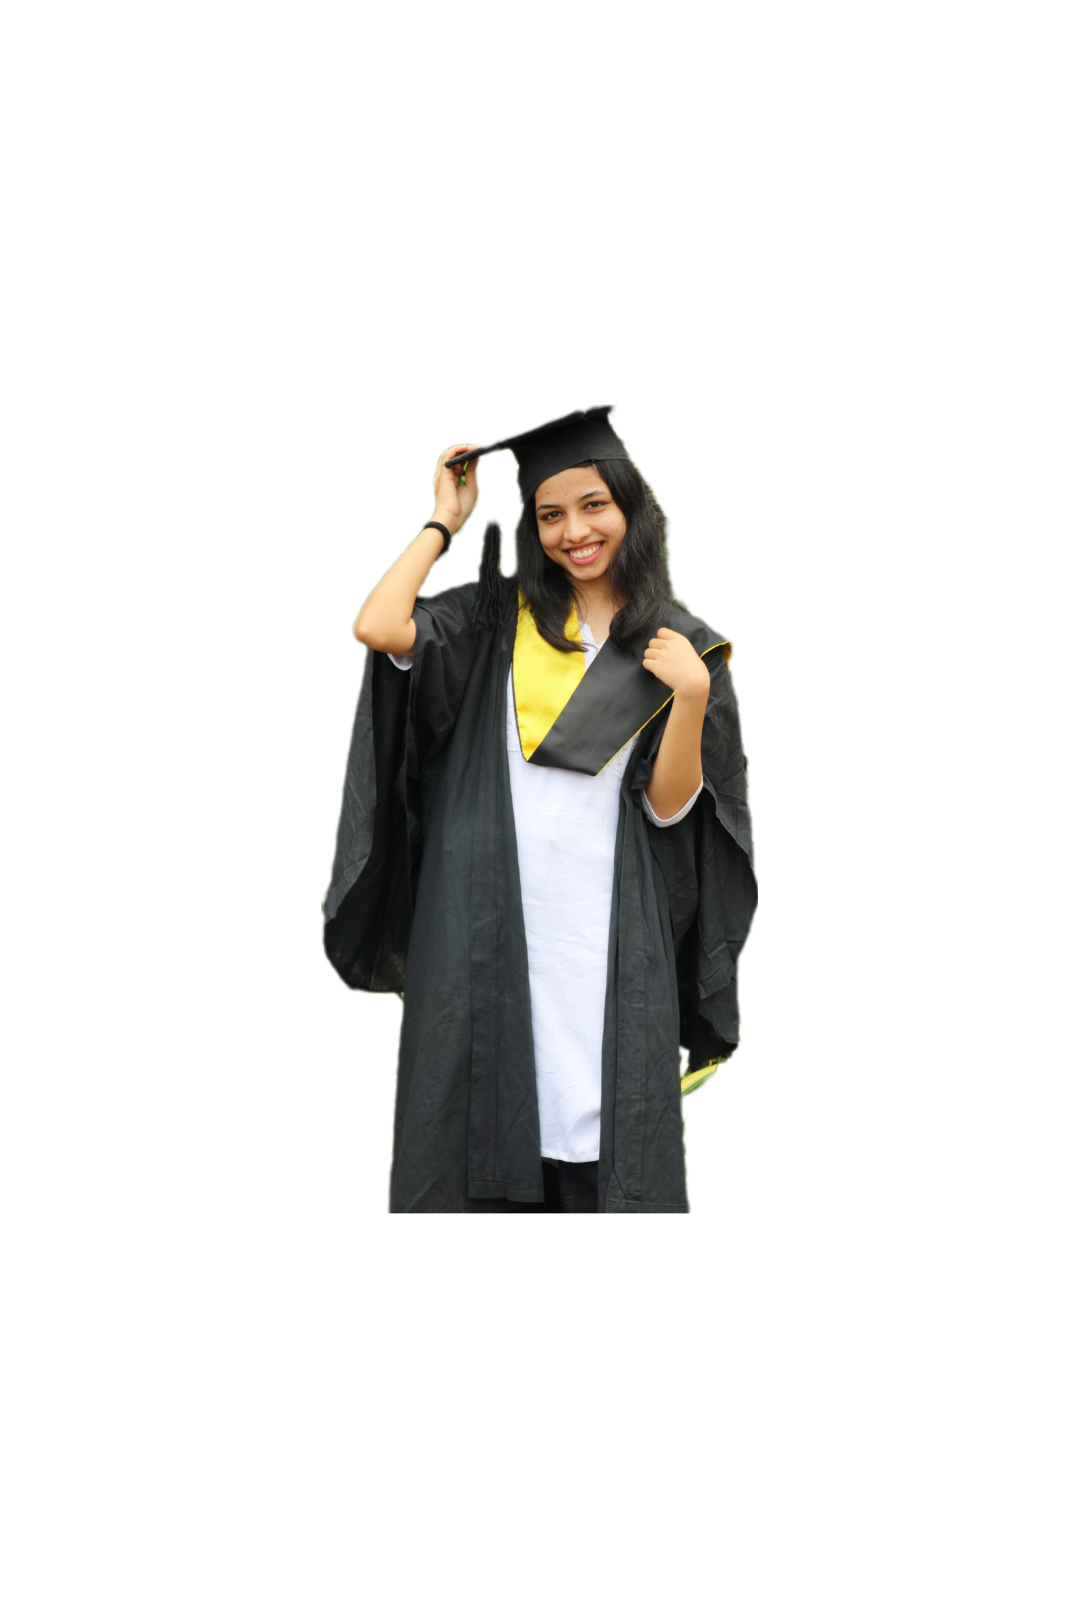
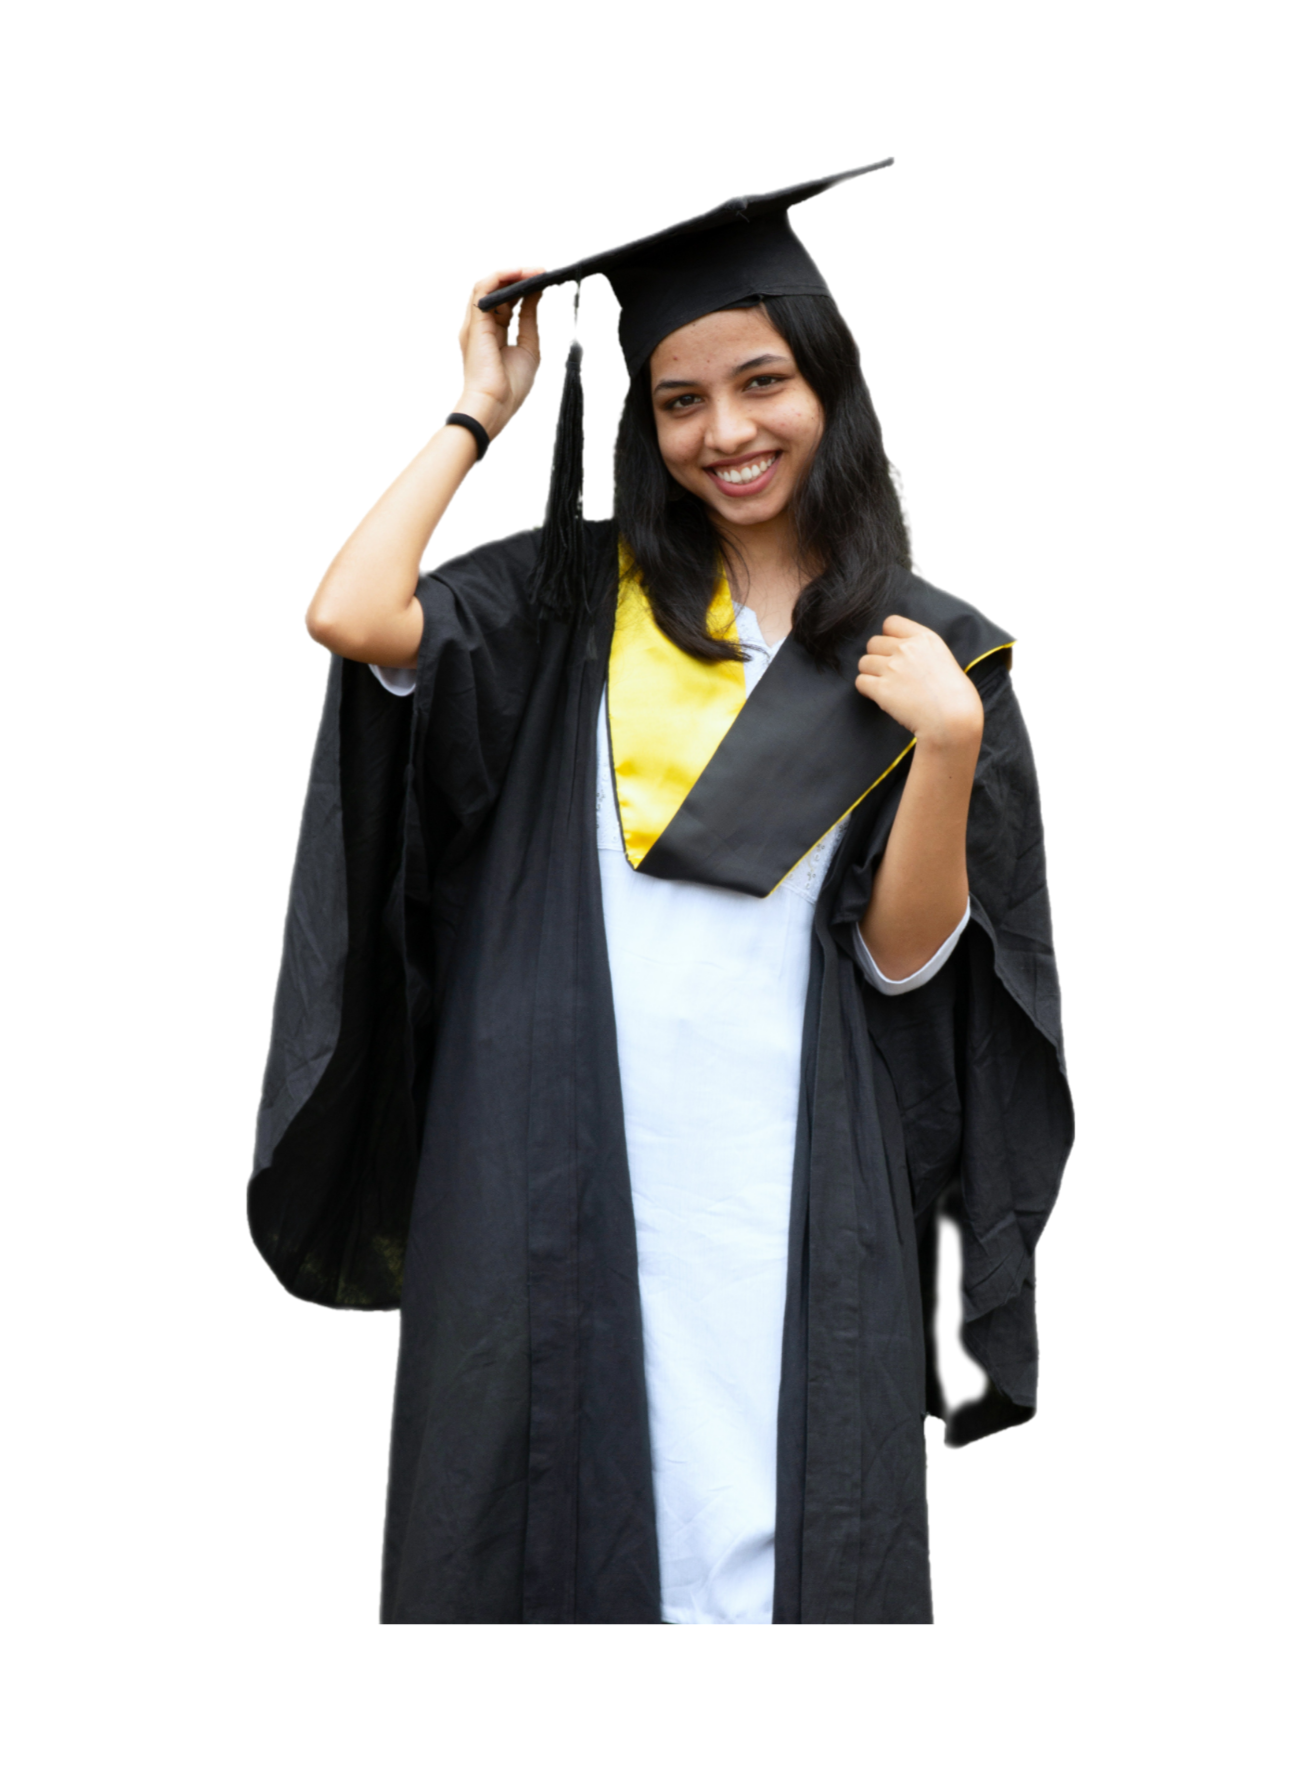
changed the ptofile along with some links

diff --git a/src/components/projects/Projects.js b/src/components/projects/Projects.js
@@ -20,21 +20,29 @@ function Projects() {
           search, and minimalist, user-friendly design for effortless news
           browsing."
         img={web}
+        git=""
+        link=""
       />
       <Project
         title="Blood Cell Segmentation"
-        desc="An automated blood cell segmentation method was developed using the watershed algorithm to count red blood cells in microscopy images "
+        desc="An automated blood cell segmentation method was developed using the watershed algorithm to count red blood cells in microscopy images. "
         img={blood}
+        git=""
+        link=""
       />
       <Project
         title="Portfolio(This Website)"
-        desc="Built a modern React JS portfolio with skill showcases, projects, and a user-friendly Contact Me section. Integrated direct email for seamless communication, enabling easy visitor outreach"
+        desc="Built a modern React JS portfolio with skill showcases, projects, and a user-friendly Contact Me section. Integrated direct email for seamless communication, enabling easy visitor outreach."
         img={portfolio}
+        git="https://github.com/mamtapoojary13/portfolio"
+        link="https://mamtapoojary13.github.io/portfolio/"
       />
       <Project
         title="Image Processing(Intern)"
-        desc="As an Image Processing Intern, I effectively utilized Python, OpenCV, and Machine Learning to tackle projects, demonstrating skills in computer vision for problem-solving"
+        desc="As an Image Processing Intern, I effectively utilized Python, OpenCV, and Machine Learning to tackle projects, demonstrating skills in computer vision for problem-solving."
         img={intern}
+        git=""
+        link=""
       />
     </div>
   );
@@ -44,7 +52,7 @@ function Project(props) {
   return (
     <div className="project">
       <div className="project-image">
-        <a href="" className="w-inline-block">
+        <a href={props.link} className="w-inline-block">
           <img src={props.img} alt="" className="p-img"></img>
         </a>
       </div>
@@ -52,7 +60,12 @@ function Project(props) {
         <h1 className="heading-2">{props.title}</h1>
         <p className="paragraph">{props.desc}</p>
         <div>
-          <a href="" className="btn-project">
+          <a
+            href={props.git}
+            className="btn-project"
+            target="_blank"
+            rel="noreferrer"
+          >
             <svg
               xmlns="http://www.w3.org/2000/svg"
               viewBox="0 0 496 512"
@@ -61,7 +74,7 @@ function Project(props) {
               <path d="M165.9 397.4c0 2-2.3 3.6-5.2 3.6-3.3 .3-5.6-1.3-5.6-3.6 0-2 2.3-3.6 5.2-3.6 3-.3 5.6 1.3 5.6 3.6zm-31.1-4.5c-.7 2 1.3 4.3 4.3 4.9 2.6 1 5.6 0 6.2-2s-1.3-4.3-4.3-5.2c-2.6-.7-5.5 .3-6.2 2.3zm44.2-1.7c-2.9 .7-4.9 2.6-4.6 4.9 .3 2 2.9 3.3 5.9 2.6 2.9-.7 4.9-2.6 4.6-4.6-.3-1.9-3-3.2-5.9-2.9zM244.8 8C106.1 8 0 113.3 0 252c0 110.9 69.8 205.8 169.5 239.2 12.8 2.3 17.3-5.6 17.3-12.1 0-6.2-.3-40.4-.3-61.4 0 0-70 15-84.7-29.8 0 0-11.4-29.1-27.8-36.6 0 0-22.9-15.7 1.6-15.4 0 0 24.9 2 38.6 25.8 21.9 38.6 58.6 27.5 72.9 20.9 2.3-16 8.8-27.1 16-33.7-55.9-6.2-112.3-14.3-112.3-110.5 0-27.5 7.6-41.3 23.6-58.9-2.6-6.5-11.1-33.3 2.6-67.9 20.9-6.5 69 27 69 27 20-5.6 41.5-8.5 62.8-8.5s42.8 2.9 62.8 8.5c0 0 48.1-33.6 69-27 13.7 34.7 5.2 61.4 2.6 67.9 16 17.7 25.8 31.5 25.8 58.9 0 96.5-58.9 104.2-114.8 110.5 9.2 7.9 17 22.9 17 46.4 0 33.7-.3 75.4-.3 83.6 0 6.5 4.6 14.4 17.3 12.1C428.2 457.8 496 362.9 496 252 496 113.3 383.5 8 244.8 8zM97.2 352.9c-1.3 1-1 3.3 .7 5.2 1.6 1.6 3.9 2.3 5.2 1 1.3-1 1-3.3-.7-5.2-1.6-1.6-3.9-2.3-5.2-1zm-10.8-8.1c-.7 1.3 .3 2.9 2.3 3.9 1.6 1 3.6 .7 4.3-.7 .7-1.3-.3-2.9-2.3-3.9-2-.6-3.6-.3-4.3 .7zm32.4 35.6c-1.6 1.3-1 4.3 1.3 6.2 2.3 2.3 5.2 2.6 6.5 1 1.3-1.3 .7-4.3-1.3-6.2-2.2-2.3-5.2-2.6-6.5-1zm-11.4-14.7c-1.6 1-1.6 3.6 0 5.9 1.6 2.3 4.3 3.3 5.6 2.3 1.6-1.3 1.6-3.9 0-6.2-1.4-2.3-4-3.3-5.6-2z" />
             </svg>
           </a>
-          <a href="" className="btn-project">
+          <a href={props.link} className="btn-project">
             <svg
               xmlns="http://www.w3.org/2000/svg"
               viewBox="0 0 512 512"

diff --git a/src/components/skills/Skills.js b/src/components/skills/Skills.js
@@ -9,21 +9,21 @@ let skillsList = [
     image: frontend,
     skillHeading: "Frontend Development",
     skillDesc:
-      "Skilled in HTML, CSS, JavaScript, and React.js for creating user-friendly interfaces and interactive web applications",
+      "Skilled in HTML, CSS, JavaScript, and React.js for creating user-friendly interfaces and interactive web applications.",
   },
   {
     id: 2,
     image: python,
     skillHeading: "Python Programming Language",
     skillDesc:
-      "Skilled in Python with experience in machine learning projects completed during college",
+      "Skilled in Python with experience in machine learning projects completed during college.",
   },
   {
     id: 3,
     image: dsa,
     skillHeading: "Data Structures and Algorithms",
     skillDesc:
-      "Competent in implementing fundamental Data Structures and Algorithms, continuously improving through practice and exploration",
+      "Competent in implementing fundamental Data Structures and Algorithms, continuously improving through practice and exploration.",
   },
 ];
 

diff --git a/src/components/intro/Intro.css b/src/components/intro/Intro.css
@@ -35,6 +35,7 @@
   font-size: medium;
   font-weight: 300;
   letter-spacing: 1px;
+  max-width: 30rem;
 }
 .btn {
   background: #fff;
@@ -61,7 +62,12 @@
     right: -10vw;
   }
 }
-@media screen and (max-width: 840px) {
+@media screen and (max-width: 1100px) {
+  .bg {
+    right: -15vw;
+  }
+}
+@media screen and (max-width: 900px) {
   .bg {
     right: -20vw;
   }
@@ -74,21 +80,26 @@
 }
 @media screen and (max-width: 750px) {
   .bg {
-    right: -30vw;
+    right: -25vw;
   }
 }
 @media screen and (max-width: 660px) {
   .bg {
-    right: -35vw;
+    right: -30vw;
   }
 }
-@media screen and (max-width: 540px) {
+@media screen and (max-width: 580px) {
   .bg {
-    right: -50vw;
+    right: -40vw;
   }
 }
+
 @media screen and (max-width: 480px) {
   .bg {
-    right: -55vw;
+    right: -45vw;
+    height: 110vh;
+  }
+  .intro-para {
+    max-width: 90vw;
   }
 }

diff --git a/src/components/intro/Intro.js b/src/components/intro/Intro.js
@@ -1,6 +1,5 @@
 import "./Intro.css";
-import profile from "../../assets/profile.png";
-import bg from "../../assets/bg.jpg";
+import bg from "../../assets/bg.png";
 import contact from "../../assets/contact.png";
 import { Link } from "react-scroll";
 
@@ -14,8 +13,8 @@ function Intro() {
         </span>
         <span>MCA Graduate</span>
         <p className="intro-para">
-          I'm a Mca graduate with experience in front-end <br /> development and
-          problem solving
+          I'm a Mca graduate with experience in frontend development and problem
+          solving
         </p>
         <Link>
           <button
@@ -30,7 +29,7 @@ function Intro() {
           </button>
         </Link>
       </div>
-      <img src={profile} alt="profile" className="bg"></img>
+      <img src={bg} alt="profile" className="bg"></img>
     </section>
   );
 }

diff --git a/src/App.js b/src/App.js
@@ -6,8 +6,6 @@ import Skills from "./components/skills/Skills";
 import Projects from "./components/projects/Projects";
 import Contact from "./components/contact/Contact";
 import Foot from "./components/foot/Foot";
-//import Test from "./components/test/Test";
-
 function App() {
   return (
     <div className="App">
@@ -17,7 +15,6 @@ function App() {
 
       <Projects />
       <Contact />
-      {/* <Test /> */}
       <Foot />
     </div>
   );

diff --git a/src/components/contact/Contact.js b/src/components/contact/Contact.js
@@ -32,7 +32,7 @@ function Contact() {
       <div id="contact">
         <h1 className="contact-title">Contact Me</h1>
         <span className="contact-description">
-          Please fill out the form below to discuss any work oportunities
+          Please fill out the form below to discuss any work opportunities
         </span>
         <form className="contact-form" ref={form} onSubmit={sendEmail}>
           <input

diff --git a/src/components/navbar/Navbar.css b/src/components/navbar/Navbar.css
@@ -71,3 +71,8 @@
     display: none !important;
   }
 }
+@media screen and (max-width: 3200px) {
+  .logo-name {
+    font-size: 1rem;
+  }
+}
